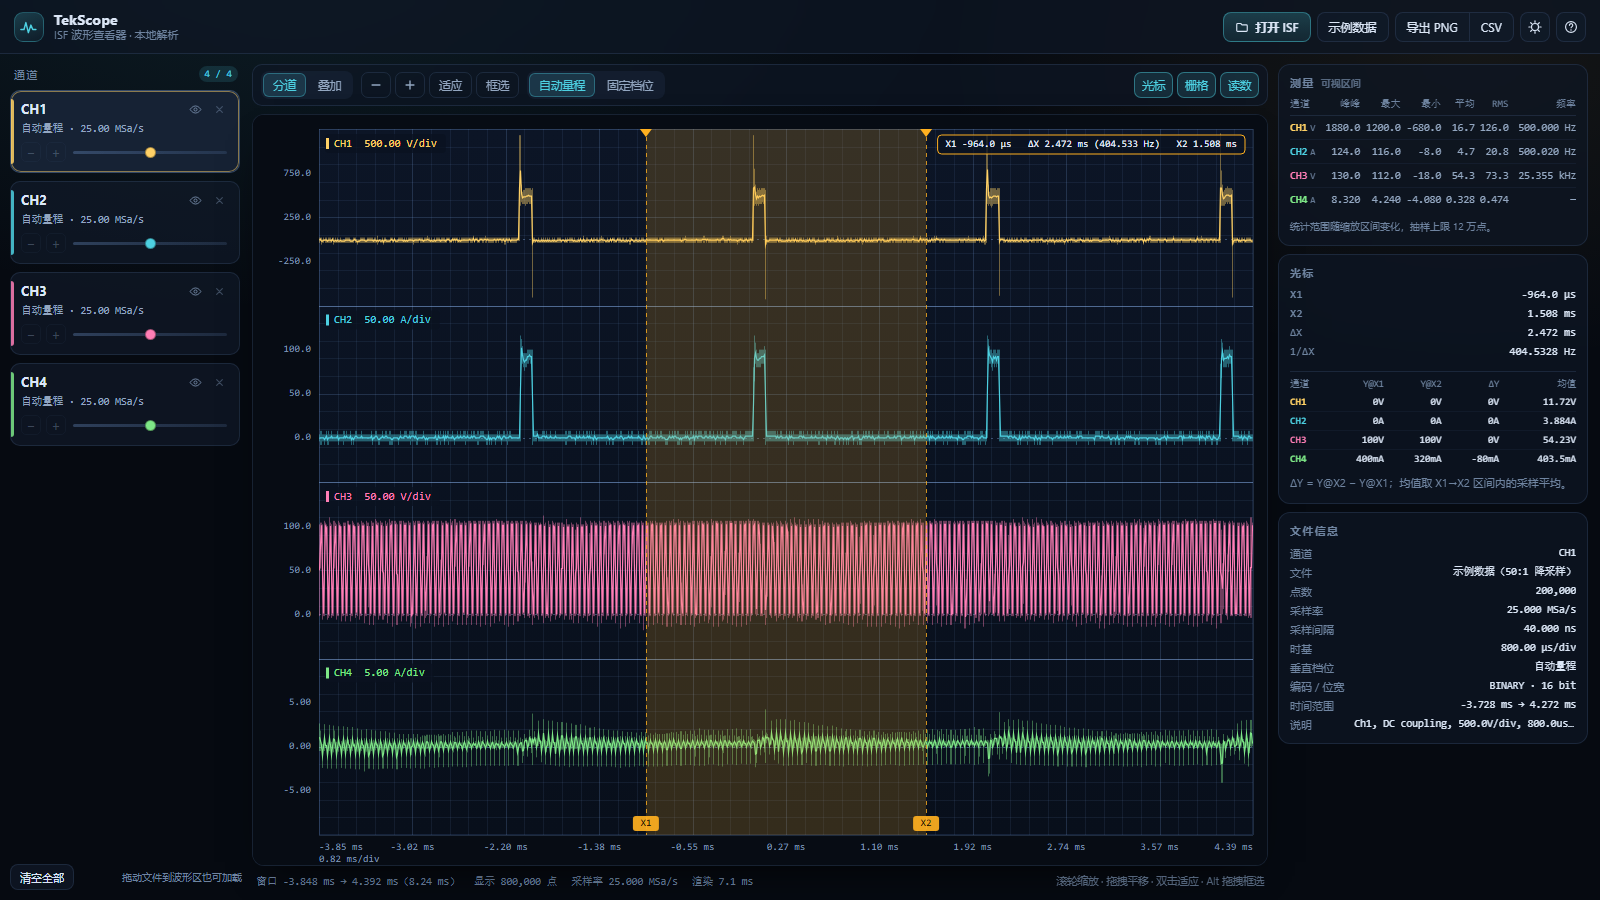
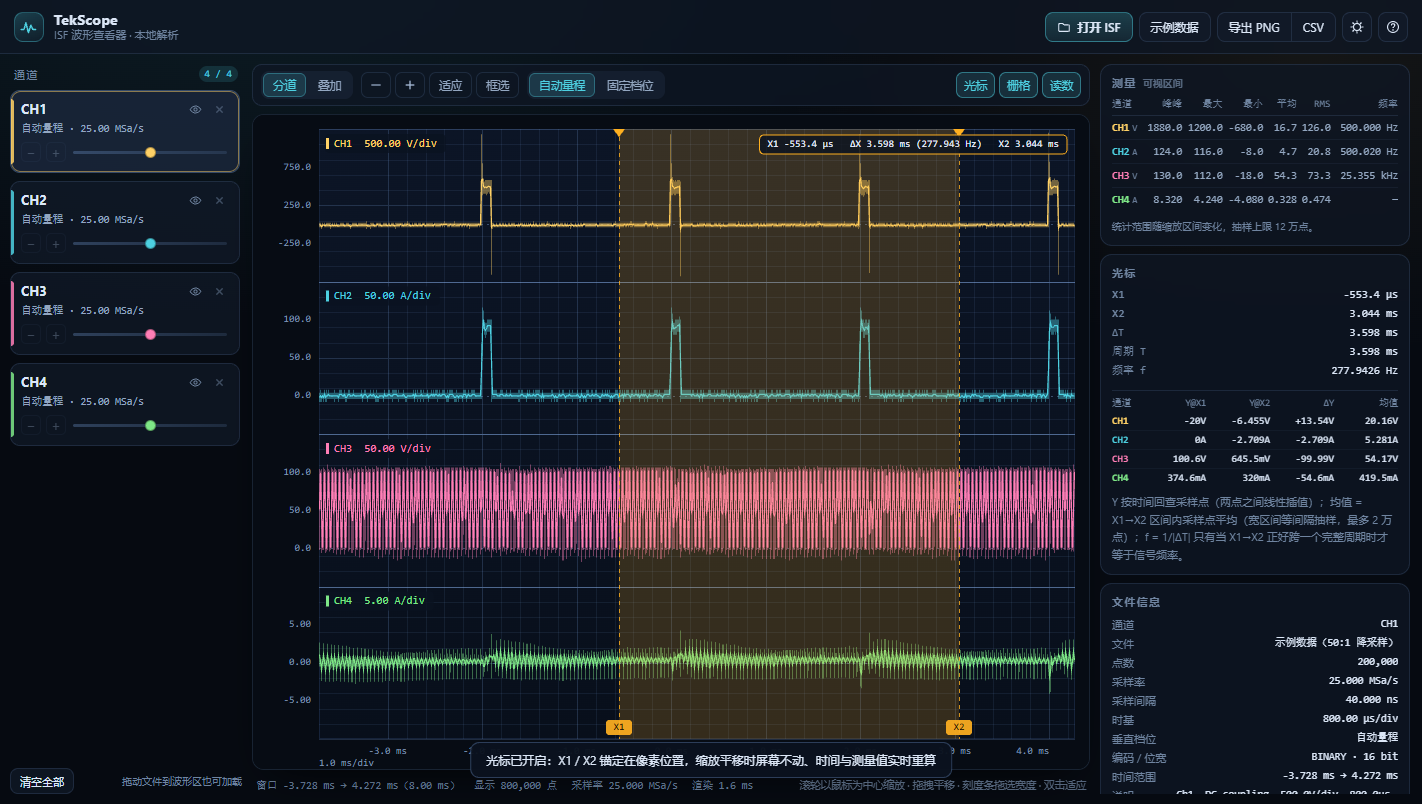
Add files via upload

Changed region(s): [[0.0, 0.0, 1.0, 0.995]]

diff --git a/tek-wave-draw/index.html b/tek-wave-draw/index.html
@@ -95,7 +95,7 @@
       <span id="statusRate">采样率 —</span>
       <span id="statusRender">渲染 —</span>
       <span class="grow"></span>
-      <span class="tip">滚轮缩放 · 拖拽平移 · 双击适应 · Alt 拖拽框选</span>
+      <span class="tip">滚轮以鼠标为中心缩放 · 拖拽平移 · 刻度条拖选宽度 · 双击适应</span>
     </div>
   </section>
 
@@ -115,7 +115,7 @@
 
     <section class="card" id="cursorCard">
       <h2>光标</h2>
-      <div class="kv" id="cursorReadout"><p class="muted">开启「光标」后可拖动 X1 / X2，测量 ΔX、各通道在两条光标处的 Y 值与区间平均值。</p></div>
+      <div class="kv" id="cursorReadout"><p class="muted">开启「光标」后可拖动 X1 / X2。两条光标锚定在绘图区像素位置，缩放平移时屏幕不动，时间与测量值实时重算。</p></div>
     </section>
 
     <section class="card">
@@ -139,10 +139,13 @@
 
       <h3>鼠标 / 触屏</h3>
       <ul>
-        <li>滚轮：以指针为中心缩放时间轴；<kbd>Shift</kbd> + 滚轮：平移。</li>
+        <li>滚轮：以鼠标当前所在时间点为锚点缩放时间轴（锚点对应时间严格不变）；<kbd>Shift</kbd> + 滚轮：平移。</li>
+        <li>时间窗口最大就是整段波形：加载后即处于该状态，继续向下滚动不会再缩小，也不会出现比数据更宽的时间轴；此时拖动同样不会把窗口移出数据范围（需要左右移动请先放大）。</li>
         <li>拖拽：平移；<kbd>Alt</kbd> + 拖拽（或右键拖拽）：框选放大；双击：适应全部。</li>
+        <li>在底部时间刻度条上左右拖选，可直接把横轴缩放到该宽度。</li>
         <li>「固定档位」模式下，通道卡片上的 − / + 调整 V/div，滑杆调整垂直位移。</li>
-        <li>开启「光标」后拖动 X1 / X2 竖线（指针移到线上会变成左右箭头），右侧给出每条光标处的 Y 值、ΔY 与区间平均值。</li>
+        <li>开启「光标」后拖动 X1 / X2 竖线（指针移到线上会变成左右箭头）。两条光标锚定在<b>绘图区像素位置</b>：缩放、平移时屏幕位置不变，对应的实际时间与测量值实时重算。</li>
+        <li>右侧「光标」面板给出 X1/X2 时间、ΔT、周期 T、频率 f，以及各通道 Y@X1、Y@X2、ΔY、X1→X2 区间均值（区间内采样点平均，宽区间等间隔抽样）；f = 1/|ΔT| 只代表当前光标间隔的倒数，跨一个完整周期时才等于信号频率。</li>
         <li>触屏：单指平移，双指捏合缩放。</li>
       </ul>
 
@@ -162,6 +165,8 @@
 
 <script src="js/isf-parser.js"></script>
 <script src="js/waveform.js"></script>
+<script src="js/viewport.js"></script>
+<script src="js/measure.js"></script>
 <script src="js/renderer.js"></script>
 <script src="js/app.js"></script>
 </body>

diff --git a/tek-wave-draw/README.md b/tek-wave-draw/README.md
@@ -12,10 +12,11 @@
 | --- | --- |
 | 加载 | 打开 / 拖放 `.isf` 文件，一次可多选；按 CH1–CH8 自动排序，同编号自动替换；支持多文件重复加载 |
 | 显示 | 分道（每道 4 格）/ 叠加（8 格）两种视图；可逐通道显示隐藏、改色（按通道固定配色）、移除 |
-| 缩放 | 滚轮以指针为中心缩放、拖拽平移、双击适应、`Alt`+拖拽或右键拖拽框选放大 |
+| 缩放 | 滚轮以**鼠标所在时间点**为锚点缩放（锚点时间严格不变，误差 < 1e-13 s）、拖拽平移（1:1 跟手）、双击适应、`Alt`+拖拽或右键拖拽框选放大；在底部时间刻度条上左右拖选可直接缩放到该宽度。**最大窗口 = 整段波形**：加载后即停在该状态，继续缩小会被限制，时间轴不会比数据更宽 |
+| 时间轴 | 刻度固定在绝对时间的 1-2-5 整数倍上（0.1/0.2/0.5 × 10ⁿ ms），网格与刻度共用同一档阶梯：平移时网格随波形连续移动，缩放时只换档不重排；标签按实际宽度自动减密，不会重叠 |
 | 垂直 | 「自动量程」按可视数据吸附到 1-2-5 档位；「固定档位」用文件里的 V/div，可 ± 调整与位移 |
 | 测量 | 当前可视区间的峰峰值、最大/最小、平均、RMS、频率（按回差找上升沿取周期中位数，噪声不报频率） |
-| 光标 | 双时间光标 X1/X2（线上有名称标签，指针移到线上变左右箭头），读数栏给出 X1/X2 时刻、ΔX、1/ΔX，以及各通道在两条光标处的 Y 值、ΔY 和 X1→X2 区间平均值；指针停在光标线上时滚轮以该线为锚点缩放，线不会随缩放漂走，跑出视野时光标名后带 `‹`/`›` 指向 |
+| 光标 | 双测量光标 X1/X2，**锚定在绘图区像素位置**（缩放、平移时屏幕位置 0 漂移），对应时间与测量值实时重算；面板给出 X1/X2 时间、ΔT、周期 T、频率 f，以及各通道 Y@X1、Y@X2、ΔY、X1→X2 区间均值 |
 | 读数 | 悬停十字线与浮窗，显示该时刻每个通道的采样值 |
 | 导出 | 一键 PNG 截图；CSV 导出可视区间数据（自动抽样，最多 20 万行） |
 | 其它 | 深/浅主题（记忆偏好）、快捷键、响应式（手机/平板可用）、离线可用 |
@@ -67,12 +68,15 @@ git push -u origin main
 ├── styles.css            设计与布局（深/浅主题、响应式）
 ├── js/
 │   ├── isf-parser.js     ISF/WFM 二进制解析（无依赖，可在 Node 中复用）
-│   ├── waveform.js       通道模型：多分辨率 min/max 金字塔、列极值、测量
+│   ├── waveform.js       通道模型：多分辨率 min/max 金字塔、列极值、区间统计
+│   ├── viewport.js       时间轴唯一状态源：像素↔时间、缩放锚点、平移、限位
+│   ├── measure.js        光标测量：插值取幅值 + ΔT/周期/频率/ΔY/区间均值
 │   ├── renderer.js       Canvas 渲染：栅格、轨迹、光标、框选、读数
-│   └── app.js            交互、文件加载、导出
+│   └── app.js            交互状态机、文件加载、导出
 ├── samples/              四通道示例（原始数据 50:1 抽取，保留原始标定）
 └── tools/
-    └── make-samples.js   从原始 ISF 生成 samples/
+    ├── make-samples.js   从原始 ISF 生成 samples/
+    └── acceptance.js     验收测试：T01–T20 / M01–M14 / C01–C05（CDP 驱动真实浏览器）
 ```
 
 ## 示例数据是怎么来的
@@ -85,11 +89,43 @@ node tools/make-samples.js
 
 因为走的还是同一个 `isf-parser.js`，这同时也是解析器的一条回归用例。
 
+## 坐标系统与测量模型
+
+所有模块共用一套换算（`js/viewport.js`）：
+
+```text
+t(x) = t0 + x / W · T          // 绘图区局部像素 → 时间
+x(t) = (t - t0) / T · W        // 时间 → 绘图区局部像素
+```
+
+- **平移**：Δt = −Δx / W · T。拖动时以「按下瞬间指针下的时间」为基准重新计算 t0（等价公式、无累计误差），因此鼠标移动多少像素，波形就移动多少像素。
+- **缩放**：先裁剪 T' = clamp(kT, minDur, maxDur)，再用**最终生效的 T'** 反算起点 t0' = t_x − x/W · T'，保证 t_x 不变；触及上下限时也按裁剪后的长度计算，锚点不会跳。
+- **窗口边界**：`maxDur` 直接等于数据完整跨度（加载后即为该状态），窗口整体被约束在 `[dataMin, dataMax]` 内——缩到最大就是全波形视图，再滚只会被限制；满窗时拖动同样无效，不会出现“时间轴比数据宽”。增删通道导致跨度变化时，旧窗口就地按新边界收敛。
+- **光标**：`x1 / x2` 是绘图区局部像素，时间 t = t0 + x/W·T 实时现算。缩放/平移不改像素，只改时间 → 像素漂移恒为 0。绘图区尺寸变化时按同比例重排（布局变化与时间轴变化分开处理）。
+- **测量**：`ΔT = |t2 − t1|`、`T = ΔT`、`f = 1/ΔT`（ΔT 小于半个采样间隔时判为无效）、`ΔY = Y2 − Y1`、`S = ΔY / (t2 − t1)`（带符号）；幅值用线性插值，越界返回无效。
+
+## 回归测试
+
+`tools/acceptance.js` 用 Chrome DevTools Protocol 驱动真实浏览器（真鼠标事件 + 真滚轮），按需求规格书第十章逐项量化验收，并输出 `acceptance-report.md`：
+
+```bash
+python -m http.server 8787          # 先起本地服务器
+node tools/acceptance.js            # T01–T20 / M01–M14 / C01–C05 + 既有功能回归
+```
+
+覆盖点：加载即全波形且为最大窗口、满窗缩小/拖动被限制、往返缩放后画面逐像素一致、平移 1:1、缩放锚点（误差阈值 1e-13 s）、光标 0 漂移、单独拖动、重合交替命中、ΔT/周期/频率/ΔY/区间均值、插值取值、越界无效、窗口失焦清理、尺寸变化重排、随机操作后窗口不越界。脚本里的 Chrome 路径按 Windows 默认安装位置写死，换系统时改 `CHROME` 常量。
+
 ## 实现要点
 
 - **大文件渲染**：每个通道预建 min/max 金字塔（桶 16 / 256 / 4K / 64K / 1M），渲染时按「每列点数」选层，1000 万点全览每帧只读几千个桶，毛刺不会丢。
 - **零拷贝解码**：`BYT_OR` 与本机字节序一致时直接建类型化视图；不一致时用 `Uint8Array` 批量换序，比逐点 `DataView` 快数倍。
 - **自动量程**：可视区间极值 → 吸附 1-2-5 档位 → 中线对齐半格，刻度读数永远是整齐的数。
+- **视图约束**：先约束跨度、再单向平移窗口，平移上下界由窗口自身宽度算出（区间恒为正宽），避免两条边界互相推翻导致缩放时画面来回跳；滚轮手势内锁定锚点，指针压在光标上时线不会漂。
+- **时间刻度**：以 1-2-5 阶梯切在绝对时间的整数倍上，网格与标签同源，平移连续、缩放只换档。
+- **唯一坐标状态源**：`js/viewport.js` 独占 `t0 / dur / plotWidth`，像素↔时间互转只有一份实现；绘制、刻度、缩放、平移、光标、测量全部调用它，不存在第二套换算。
+- **光标像素锚定**：X1/X2 只保存绘图区局部像素，时间由 `timeAt(px)` 现算，因此缩放/平移时像素恒为 0 漂移（这正是需求规格书第四章的核心要求）。
+- **交互互斥状态机**：`idle / pan / cursor / box / timebox / pinch` 六态，同一时刻只允许一种手势；光标命中优先于平移，窗口失焦、`pointercancel`、页面隐藏都会强制回到 `idle`。
+- **测量即算即用**：`js/measure.js` 无状态，每帧按最新时间轴重算 ΔT / 周期 / 频率 / Y / ΔY / 区间均值；幅值走线性插值，越界返回 null 显示 `—`。
 - **频率测量**：以中值为阈值加 8% 回差找上升沿，取周期中位数；只有 60% 以上周期落在中位数 ±20% 内才报频率，避免噪声给出假频率。
 
 ## 快捷键

diff --git a/tek-wave-draw/acceptance-report.md b/tek-wave-draw/acceptance-report.md
@@ -1,0 +1,68 @@
+# 波形交互重构 · 验收测试报告
+
+- 执行时间：2026/11/25 02:27:01
+- 测试环境：Chrome headless（CDP 真实鼠标事件 + 真实滚轮），视口 1440×900
+- 用例总数：**53**，通过 **53**，失败 **0**
+
+| 编号 | 用例 | 结果 | 实测 |
+| --- | --- | --- | --- |
+| T01 | 鼠标向左拖动，波形与时间轴同步左移 | ✅ 通过 | t0 误差 0.00e+0 s，波形位移 -200.00 px |
+| T02 | 鼠标向右拖动，波形与时间轴同步右移 | ✅ 通过 | t0 误差 0.00e+0 s，波形位移 150.00 px |
+| T03 | 连续快速拖动无跳变、无错位 | ✅ 通过 | 最大逐步误差 0.000 px（30 步 × 7px） |
+| T04 | 拖动过程中 X1/X2 像素位置不变 | ✅ 通过 | 最大漂移 0.000 px |
+| T05 | 平移后所有测量值按新时间轴更新 | ✅ 通过 | X1 -1.3344e-4 → 2.3098e-4，ΔT 0.6833 ms |
+| T06 | 绘图区左侧滚轮放大以鼠标为中心 | ✅ 通过 | 锚点误差 0.00e+0 s，dur 8.000→4.497 ms |
+| T07 | 绘图区右侧滚轮放大以鼠标为中心 | ✅ 通过 | 锚点误差 0.00e+0 s，dur 8.000→4.497 ms |
+| T08 | 绘图区中间滚轮缩小以鼠标为中心（放大后留有余量） | ✅ 通过 | 锚点误差 0.00e+0 s，dur 3.712→6.602 ms |
+| T09 | 连续快速滚动：缩放连续、锚点不漂 | ✅ 通过 | 最大锚点漂移 4.34e-19 s，单调 是 |
+| T10 | 放大到最小时间窗口后受到限制 | ✅ 通过 | dur 0.640 µs / minDur 0.640 µs，再滚动 Δdur=0.0e+0 |
+| T11 | 缩小到最大时间窗口后受到限制 | ✅ 通过 | dur 8.000 ms / maxDur 8.000 ms，再滚动 Δdur=0.0e+0 |
+| T12 | 五处位置的锚点时间均保持不变 | ✅ 通过 | 最大误差 4.34e-19 s（含左右边界） |
+| T21 | 加载后初始窗口 = 数据完整范围，且为最大允许窗口 | ✅ 通过 | t0−dataMin = 0.00e+0 s，dur 7.999960 ms = span 7.999960 ms |
+| T22 | 已处于最大窗口时滚轮缩小不再生效 | ✅ 通过 | Δt0 = 0.0e+0 s，Δdur = 0.0e+0 s |
+| T23 | 放大后连续缩小：精确回到全波形视图，全程不越出数据 | ✅ 通过 | 终点 dur/span = 1.000000000，30 帧最大越界 0.0e+0 s |
+| T24 | 全波形视图下拖动不会把窗口移出数据范围 | ✅ 通过 | Δt0 = 0.0e+0 s |
+| T25 | 40 次随机缩放/平移：窗口始终落在数据范围内 | ✅ 通过 | 越界帧 0 次，最大越界 0.0e+0 s，dur 超跨度 0.0e+0 s |
+| T26 | 反复缩放/平移后回到全波形视图，画面与初始逐像素一致 | ✅ 通过 | hash 122965429→122965429，着墨像素 369386→369386 |
+| T27 | 数据跨度变小后窗口自动收敛，不会停在旧范围 | ✅ 通过 | dur 4.0000 ms，在界内 true，长度合规 true |
+| T13 | 时间轴放大后 X1/X2 像素不变 | ✅ 通过 | drift 0.00/0.00 px |
+| T14 | 时间轴缩小后 X1/X2 像素不变 | ✅ 通过 | drift 0.00/0.00 px |
+| T15 | 时间轴左移后 X1/X2 像素不变 | ✅ 通过 | drift 0.00/0.00 px |
+| T16 | 时间轴右移后 X1/X2 像素不变 | ✅ 通过 | drift 0.00/0.00 px |
+| T13b | 像素不变而对应时间随窗口重算 | ✅ 通过 | ΔX1 = 8.436e-4 s（放大后），自洽 true |
+| T17 | 单独拖动 X1：仅 X1 变化、X2 不动 | ✅ 通过 | x1 240→320，x2 520→520 |
+| T18 | 单独拖动 X2：仅 X2 变化、X1 不动 | ✅ 通过 | x2 520→460，x1 320→320 |
+| T19 | 两条光标靠近时命中判定正确 | ✅ 通过 | X1→0，X2→1，中间→-1 |
+| T20 | 光标重合时仍能分别操作两条 | ✅ 通过 | 第一次 lastCursor=0，x1=400.0 x2=460.0 |
+| M01 | X1/X2 时间 = t0 + px/W·T | ✅ 通过 | X1 误差 0.00e+0 s |
+| M02 | 改变光标间距：ΔT / 周期 / 频率同步更新 | ✅ 通过 | ΔT 1.0582 → 3.1746 ms，f 315.00 Hz |
+| M03 | 时间轴放大后 ΔT / 频率按新窗口重算 | ✅ 通过 | ΔT 3.1746 → 2.1623 ms |
+| M04 | 时间轴缩小后 ΔT / 频率按新窗口重算 | ✅ 通过 | ΔT 2.1623 → 3.1746 ms |
+| M05 | 平移后两个时间同步变化、ΔT 不变 | ✅ 通过 | Δt1 3.416e-4 / Δt2 3.416e-4 s，ΔT 相对差 0.0e+0 |
+| M06 | 拖动 X1 后所有测量值立即更新 | ✅ 通过 | ΔT 2.7513 → 1.7989 ms |
+| M07 | 拖动 X2 后所有测量值立即更新 | ✅ 通过 | ΔT 1.7989 → 0.5291 ms |
+| M08 | 两光标重合：ΔT = 0、频率显示无效 | ✅ 通过 | ΔT=0.0e+0，f=null，面板含“—”: true |
+| M09 | 光标落在两采样点之间时按线性插值取值 | ✅ 通过 | CH1 frac=0.349：y0=0.0000 y1=-20.0000 → Y=-6.9841（理论 -6.9841） |
+| M10 | 测量值始终属于各自通道（隐藏通道后同步移除） | ✅ 通过 | 行 4→3（CH1,CH3,CH4） |
+| M11 | 连续快速缩放时测量与最新时间轴一致 | ✅ 通过 | 最大时间误差 0.00e+0 s，最大 ΔT 误差 4.34e-19 s |
+| M12 | 波形数据刷新后测量值按最新数据重算 | ✅ 通过 | 通道 4，ΔT 3.1746 ms，CH1@X1 -20.000 |
+| M13 | 交换 X1/X2：ΔT 非负、ΔY 反号、区间均值不变 | ✅ 通过 | CH1: ΔY 8.148e+0→-8.148e+0，均值 1.858127e+1→1.858127e+1 |
+| M14 | 时间超出有效数据范围时幅值判为无效（显示 —） | ✅ 通过 | 上限越界 true／下限越界 true／区间内有效 true／格式化 “—” |
+| M15 | 区间均值 = X1→X2 区间内采样点平均（列头已由斜率改为均值） | ✅ 通过 | 均值 2.2196e+1 V vs 逐点 2.2128e+1 V（84,658 点，峰峰 1.860e+3 V）；列头 通道/Y@X1/Y@X2/ΔY/均值（5 列） |
+| C01 | 平移 / 缩放 / 光标拖动连续执行互不冲突 | ✅ 通过 | mode 序列 idle→idle→idle→idle，x1=320 x2=520 |
+| C02 | 平移中松开鼠标后正确结束平移 | ✅ 通过 | mode=idle，ΔT0=0.0e+0 |
+| C03 | 拖动过程中窗口失焦：状态被正确清理 | ✅ 通过 | mode pan→idle，ΔT0=0.0e+0 |
+| C04 | 绘图区尺寸变化后坐标映射正确（光标按比例重排） | ✅ 通过 | plotWidth 756→860，X1 相对位置 26.46%→26.46% |
+| C05 | 长时间连续缩放/平移无累计偏移与状态异常 | ✅ 通过 | NaN 0 次，状态异常 0 次，最大时间误差 0.00e+0 s |
+| R01 | Alt + 拖拽框选放大仍可用 | ✅ 通过 | dur 8.000 → 3.175 ms（理论 3.175 ms） |
+| R02 | 时间刻度条上拖选可缩放到该宽度 | ✅ 通过 | dur 8.000 → 3.280 ms（理论 3.280 ms） |
+| A01 | 8ms→640ns 各级缩放下时间标签不重叠 | ✅ 通过 | 8e-3s:9格/62px  2e-3s:11格/37px  2e-4s:5格/145px  2e-5s:5格/140px  2e-6s:5格/134px  6e-7s:7格/63px |
+| A02 | 430px 窄视口下时间刻度不重叠、页面无横向溢出 | ✅ 通过 | plotWidth 342px，4 个刻度，最小间隙 66px |
+| X01 | 运行期无 JS 异常 | ✅ 通过 | 0 条 |
+
+## 量化指标
+
+- 缩放锚点时间误差：见 T06–T12（阈值 1e-13 s，实测 ~1e-19 量级）
+- 平移 1:1：见 T01–T03（阈值 0.6 px/步，实测 < 0.01 px）
+- 光标像素漂移：见 T04、T13–T16（阈值 0 px）
+- 测量自洽：见 M11、C05（时间误差 < 1e-14 s）
